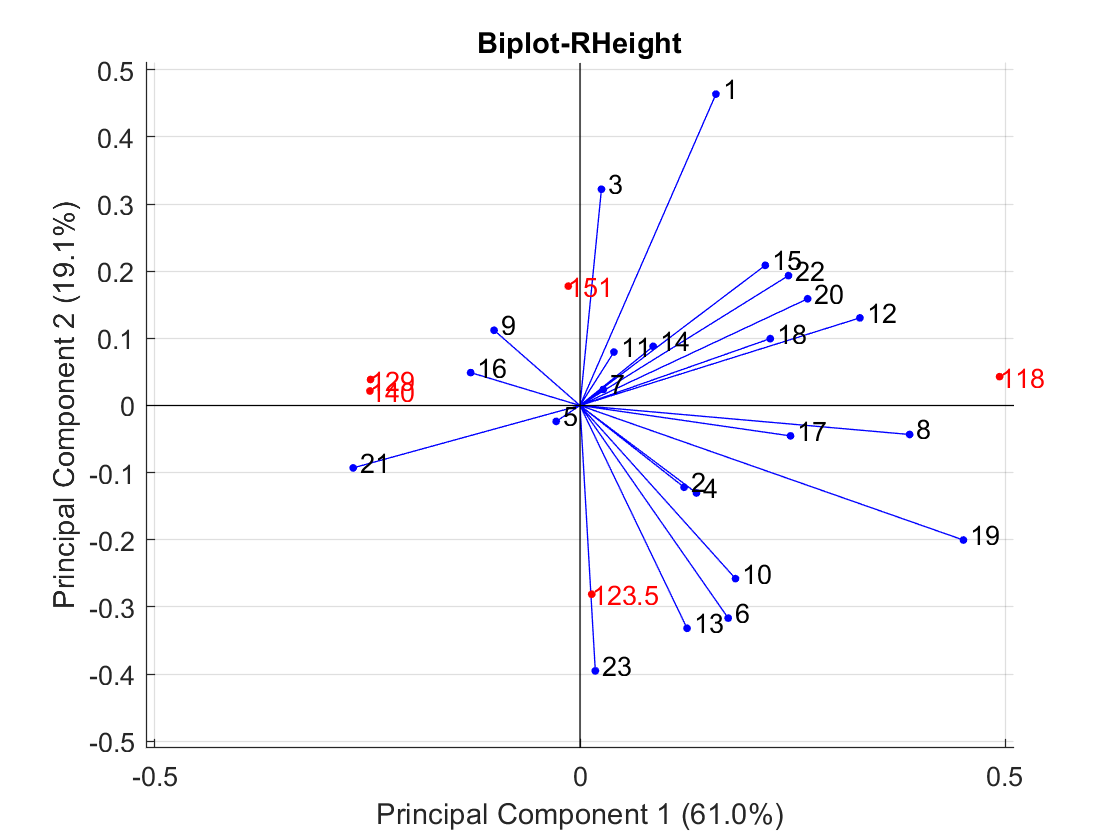
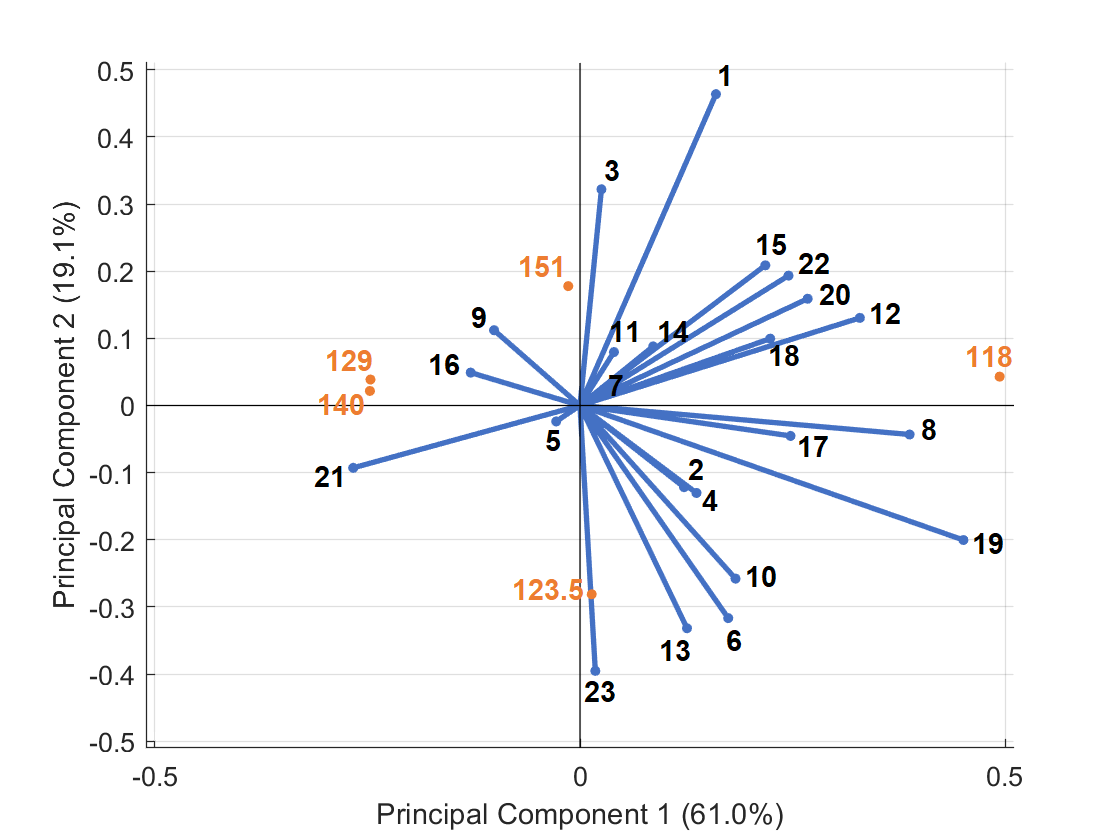
nye figurer til artikel

diff --git a/Artikel1/bare_conf.tex b/Artikel1/bare_conf.tex
@@ -450,7 +450,7 @@ Aalborg, Denmark\\ Email: 17gr782@es.aau.dk}
 % The subfigure \label commands are set within each subfloat command,
 % and the \label for the overall figure must come after \caption.
 % \hfil is used as a separator to get equal spacing.
-% Watch out that the combined width of all the subfigures on a 
+% Watch out that the combined width of al<l the subfigures on a 
 % line do not exceed the text width or a line break will occur.
 %
 %\begin{figure*}[!t]
@@ -483,7 +483,7 @@ Aalborg, Denmark\\ Email: 17gr782@es.aau.dk}
 % The \label must come after \caption as always.
 %
 %\begin{table}[!t]
-%% increase table row spacing, adjust to taste
+% increase table row spacing, adjust to taste
 %\renewcommand{\arraystretch}{1.3}
 % if using array.sty, it might be a good idea to tweak the value of
 % \extrarowheight as needed to properly center the text within the cells

diff --git a/1. Arbejdsblade/Master.tex b/1. Arbejdsblade/Master.tex
@@ -63,7 +63,7 @@
 \input{Content/TestAfSkala/Databehandling/IndgangsvinkelPCA}
 \input{Content/TestAfSkala/Databehandling/Korrelationsgrafer}
 \input{Content/TestAfSkala/Databehandling/Demografi}
-%\input{Content/TestAfSkala/Databehandling/KoensForskel}
+\input{Content/TestAfSkala/Databehandling/KoensForskel}
 
 
 \input{Content/TestAfSkala/DelDiskussion}
